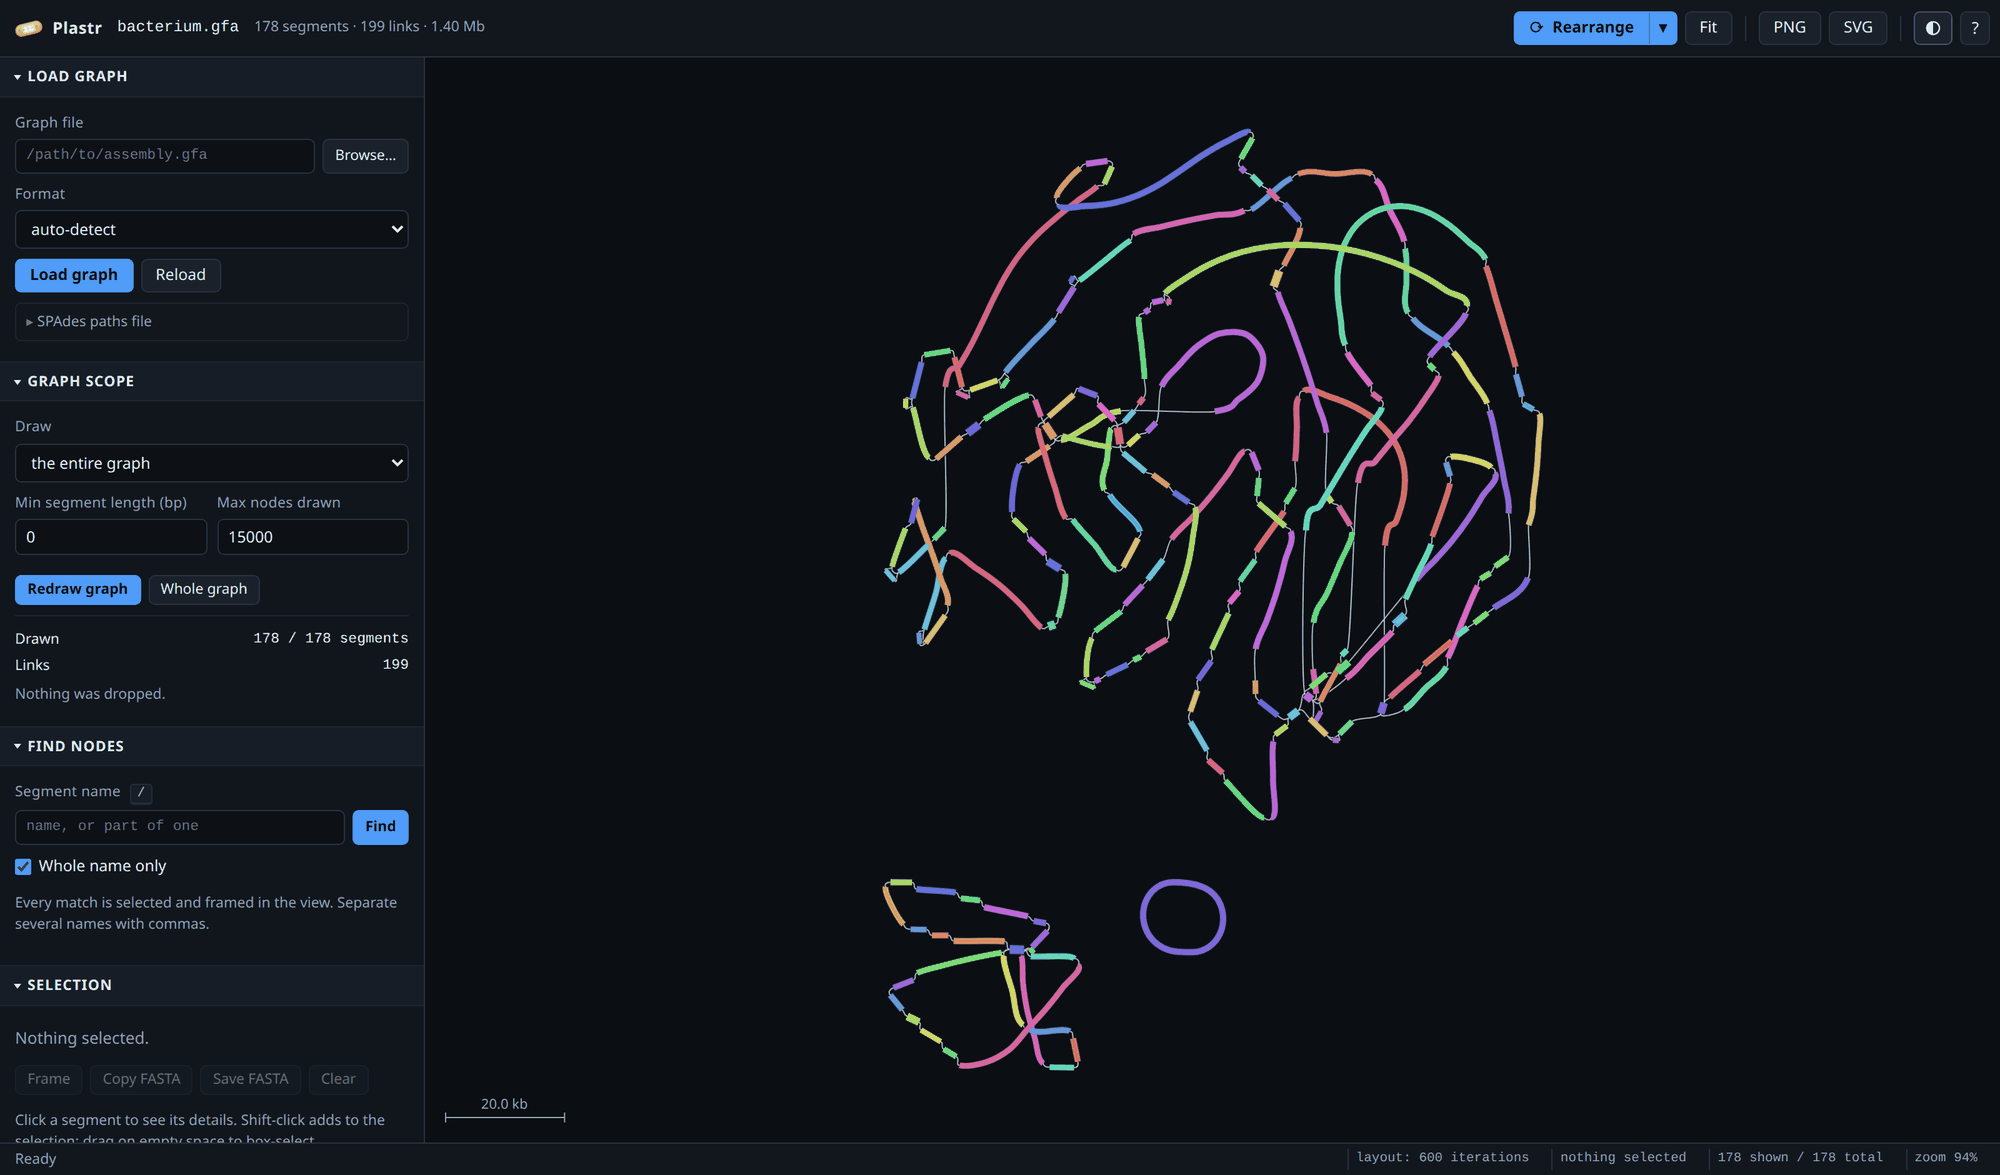
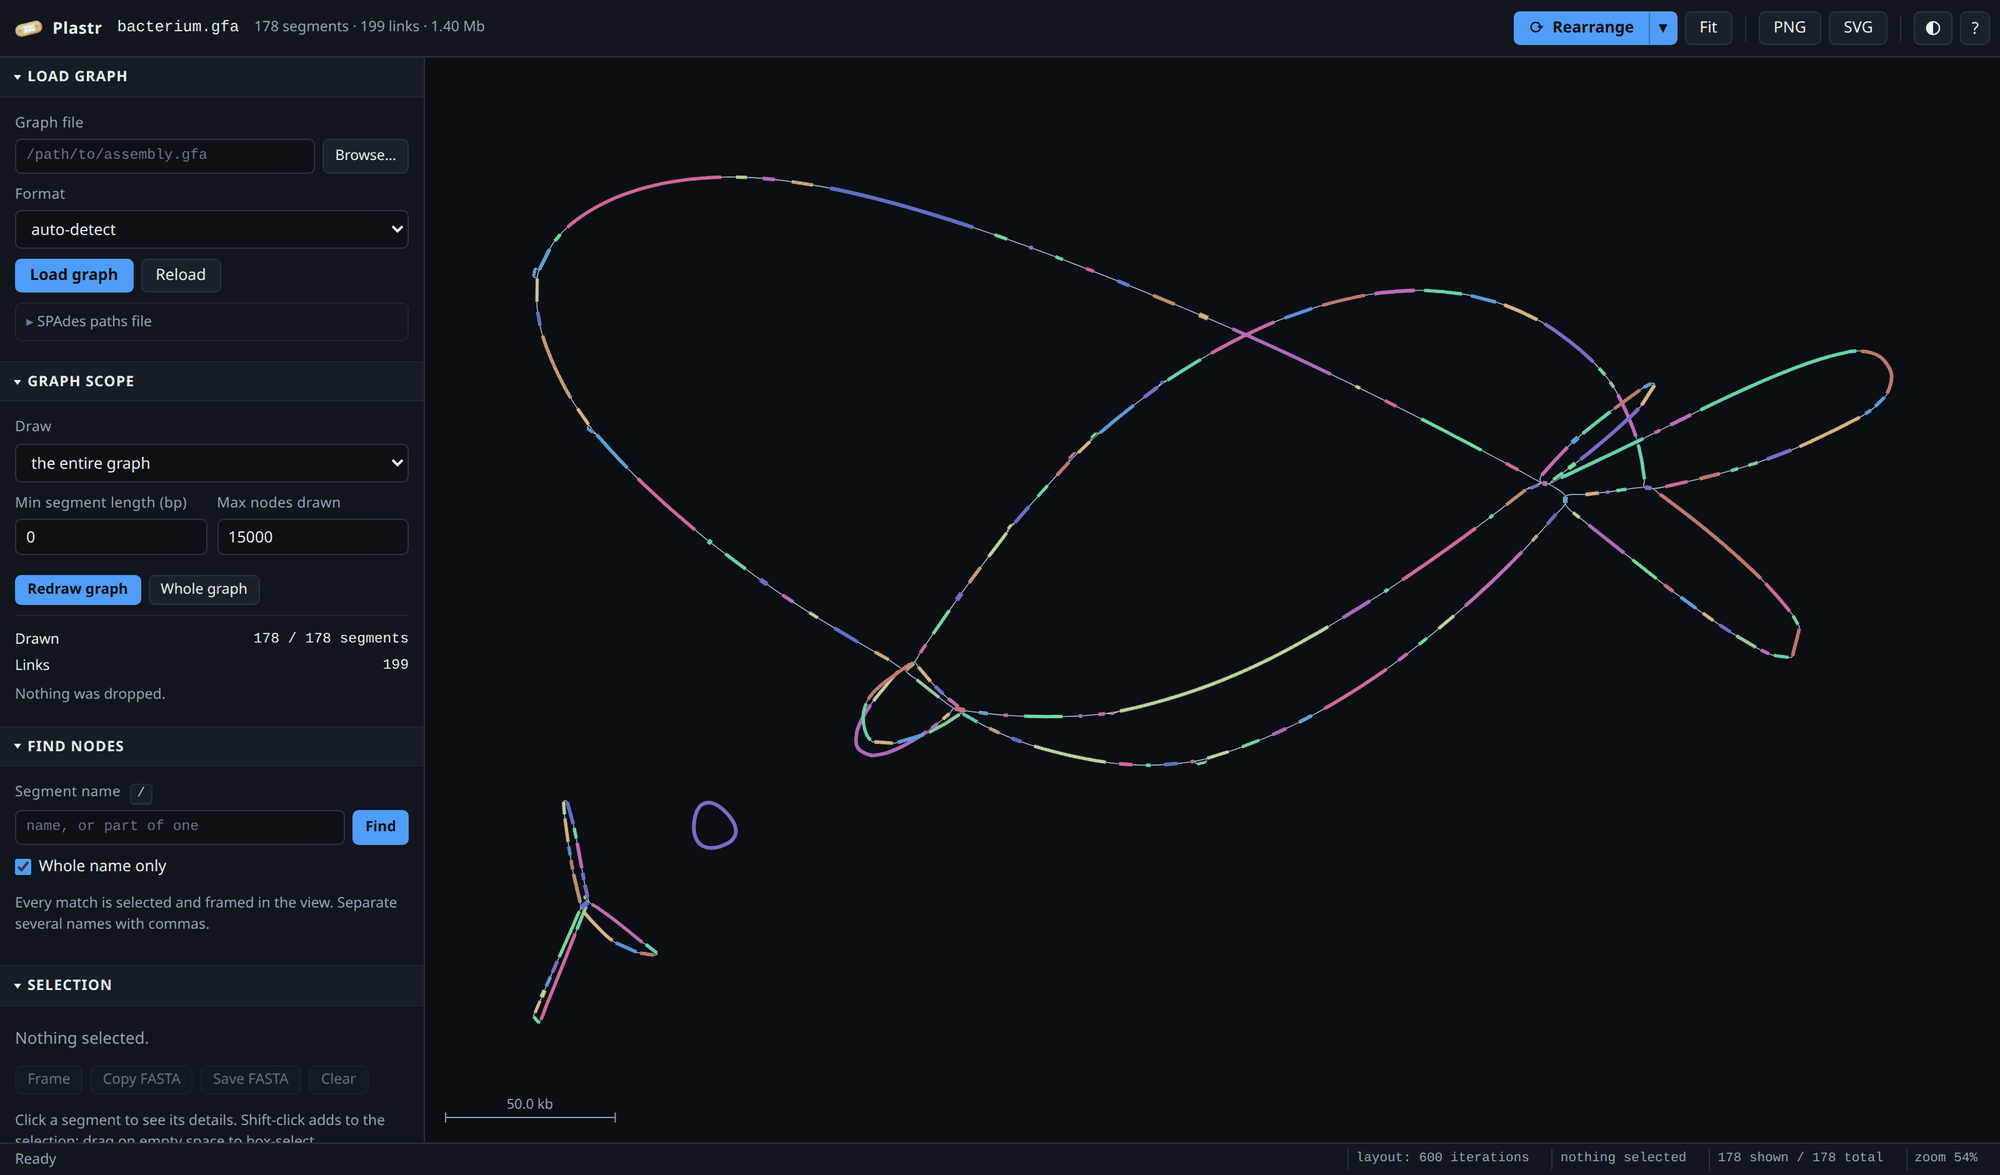
Let the loops open out, and colour contigs by their scaffold
Rendered five assemblies -- a finished genome, a long-read draft, a short-read
draft, a metagenome and a fragmented low-coverage one -- through the reference
implementation and through this one, and compared them side by side rather than
working from an idea of what the output looks like.

The reference draws a 223-contig replicon as long open petals radiating from a
repeat hub, with a great deal of white space. This drew the same graph as a
uniformly dense disc. Two causes.

Gravity. Pulling every contig towards its component's centre packs a drawing
inwards, and the long loops between repeats are exactly what that destroys:
they are the structure, and they can only be read if they are free to reach
outwards. There is no equivalent in the reference. It is off, and components
are held together by packing them explicitly, which was already the case.

Connection length. With gravity gone, repulsion can open the loops out, but a
connection was a soft spring while a contig's own spacing was a hard
constraint, so the contigs kept their length and the connections took up all
the slack -- stretching to two units and turning the drawing into beads on
strings. Connections are now projected to their length in the same pass as
everything else, so repulsion spreads the graph while they stay short: median
0.44 units at thirty times the old repulsion, against 2.08 without it.

The result is open petals with white space, mean join angle 24 degrees against
[…]

diff --git a/src/plastr/web/js/layout.js b/src/plastr/web/js/layout.js
@@ -230,7 +230,7 @@ export const DEFAULT_PARAMS = Object.freeze({
   // the value that reproduces that on both a 10-segment and a 285-segment
   // graph. The previous 0.05 predated the per-graph length calibration and left
   // small graphs with gaps twice the length of the contigs they joined.
-  repulsion: 0.01,
+  repulsion: 0.12,
   linkStrength: 1.80,
   // Rest length of a link, **as a fraction of the mean intra-segment spacing**.
   // Bandage gives real edges an ideal length of 5.0 against a node segment
@@ -244,6 +244,10 @@ export const DEFAULT_PARAMS = Object.freeze({
   // the contigs are the picture, and a longer rest length turns them into beads
   // on strings.
   linkRestFrac: 0.25,
+  // How much of a connection's length error is corrected per constraint pass.
+  // Enough to keep connections short under repulsion, short of 1 so a graph
+  // that cannot satisfy every connection at once relaxes instead of jittering.
+  linkStiffness: 0.5,
   // Keeps a long contig reading as a smooth sweep rather than a squiggle.
   bendStrength: 0.90,
   // How firmly a closed molecule is held to a circle. Strong enough to survive
@@ -267,7 +271,12 @@ export const DEFAULT_PARAMS = Object.freeze({
   // Pull towards the component's own centre, not the whole drawing's. A global
   // centroid packs every component into one disc, which is why unrelated
   // plasmids used to be threaded through the chromosome.
-  gravity: 0.02,
+  // Off. Pulling every contig towards its component's centre packs the drawing
+  // into a uniformly dense disc, which is what a graph layout must not do: the
+  // long loops between repeats are the structure, and they can only be seen if
+  // they are free to reach outwards. Components are kept together by packing
+  // them explicitly, so nothing needs gravity to stop it drifting.
+  gravity: 0,
   damping: 0.82,
   theta: 0.75,
   maxIter: 600,
@@ -769,7 +778,40 @@ export class LayoutEngine {
     if (preX) {
       for (let i = 0; i < nParticles; i++) { preX[i] = px[i]; preY[i] = py[i]; }
     }
+    const linkRest = unit * (P.linkRestFrac !== undefined ? P.linkRestFrac : 0.25);
+    const linkStiff = Math.max(0, Math.min(1, P.linkStiffness === undefined ? 0.5 : P.linkStiffness));
     for (let pass = 0; pass < passes; pass++) {
+      // Hold connections to their length the same way a contig's own spacing is
+      // held: by projection, not by a spring. A spring loses. The spacing
+      // inside a contig is a hard constraint applied every pass, so when
+      // repulsion rises to open the drawing out, the contigs keep their length
+      // and the connections take up all the slack -- stretching to two units
+      // and turning the picture into beads on strings. Constraining them too
+      // lets repulsion spread the graph while connections stay short.
+      if (linkStiff > 0) {
+        for (let l = 0; l < this.nLinks; l++) {
+          if (this.linkFrom[l] === this.linkTo[l]) continue;
+          const a = this.particleOf(this.linkFrom[l], this.linkFromEnd[l]);
+          const b = this.particleOf(this.linkTo[l], this.linkToEnd[l]);
+          if (a === b) continue;
+          const ma = mobile[a], mb = mobile[b];
+          if (!ma && !mb) continue;
+          let dx = px[b] - px[a];
+          let dy = py[b] - py[a];
+          let d = Math.sqrt(dx * dx + dy * dy);
+          if (d < 1e-4) continue;
+          const corr = ((d - linkRest) / d) * linkStiff;
+          if (ma && mb) {
+            const hx = dx * corr * 0.5, hy = dy * corr * 0.5;
+            px[a] += hx; py[a] += hy;
+            px[b] -= hx; py[b] -= hy;
+          } else if (ma) {
+            px[a] += dx * corr; py[a] += dy * corr;
+          } else {
+            px[b] -= dx * corr; py[b] -= dy * corr;
+          }
+        }
+      }
       for (let s = 0; s < nSegments; s++) {
         const p0 = segP0[s], k = segK[s];
         if (k < 2) continue;

diff --git a/src/plastr/web/js/render.js b/src/plastr/web/js/render.js
@@ -342,6 +342,36 @@ export class ColourMapper {
         return this;
       }
 
+      case 'path': {
+        // Which scaffold each contig belongs to. A GFA path is the assembler's
+        // own statement that these contigs are one molecule, and it is the
+        // thing a drawing most easily loses: a circular replicon in twenty
+        // pieces is twenty unrelated colours unless something says otherwise.
+        // Contigs in no path stay grey, so what is scaffolded and what is not
+        // reads at a glance.
+        const paths = graph.paths || [];
+        this.palette = [grey].concat(paths.map((_, i) => CATEGORICAL[i % CATEGORICAL.length]));
+        for (const s of graph.segments) {
+          const inPaths = graph.pathsForSegment(s.idx);
+          // A contig shared by several paths takes the first, which is the
+          // longest -- the scaffold it mostly belongs to.
+          this.segPal[s.idx] = inPaths.length ? (inPaths[0].idx % (this.palette.length - 1)) + 1 : 0;
+        }
+        const placed = graph.segments.filter((s) => this.segPal[s.idx] > 0).length;
+        this.legend = {
+          type: 'cat',
+          label: paths.length ? 'scaffold (GFA path)' : 'no paths in this graph',
+          items: paths.slice(0, 14).map((pth, i) => ({
+            colour: this.palette[(i % (this.palette.length - 1)) + 1],
+            label: `${pth.name} · ${pth.segs.length} contig${pth.segs.length === 1 ? '' : 's'}`,
+          })).concat(placed < graph.segments.length
+            ? [{ colour: grey, label: `${graph.segments.length - placed} not in any path` }]
+            : []),
+          more: Math.max(0, paths.length - 14),
+        };
+        return this;
+      }
+
       case 'random': {
         // One colour per node, seeded from its name so it is stable across
         // reloads. This is Bandage's default and it is the most legible way to

diff --git a/src/plastr/web/index.html b/src/plastr/web/index.html
@@ -215,6 +215,7 @@
             <option value="gc">GC content</option>
             <option value="length">length</option>
             <option value="component">connected component</option>
+            <option value="path">scaffold (GFA path)</option>
             <option value="randomComponent">random per component</option>
             <option value="reference">reference chromosome</option>
             <option value="search">search / BLAST hit</option>
@@ -482,11 +483,11 @@
     <details class="sub">
       <summary>Physics</summary>
       <label class="field"><span class="field-label">Repulsion <output id="rr-rep-out">0.010</output></span>
-        <input type="range" id="rr-repulsion" aria-label="Repulsion" min="0.002" max="0.2" step="0.002" value="0.01"></label>
+        <input type="range" id="rr-repulsion" aria-label="Repulsion" min="0.005" max="0.6" step="0.005" value="0.12"></label>
       <label class="field"><span class="field-label">Link strength <output id="rr-link-out">1.80</output></span>
         <input type="range" id="rr-linkstr" aria-label="Link strength" min="0.1" max="4" step="0.05" value="1.8"></label>
       <label class="field"><span class="field-label">Gravity <output id="rr-grav-out">0.020</output></span>
-        <input type="range" id="rr-gravity" aria-label="Gravity" min="0" max="0.4" step="0.005" value="0.02"></label>
+        <input type="range" id="rr-gravity" aria-label="Gravity" min="0" max="0.4" step="0.005" value="0"></label>
       <label class="field"><span class="field-label">Max iterations</span>
         <input type="number" id="rr-iters" value="600" min="30" max="20000" step="50"></label>
     </details>

diff --git a/README.md b/README.md
@@ -189,6 +189,7 @@ the colours currently mean.
 | **GC content** | A ramp over GC fraction |
 | **length** | A ramp over contig length |
 | **connected component** | One colour per component |
+| **scaffold (GFA path)** | One colour per `P`-line, so the contigs the assembler says are one molecule read as one molecule. Contigs in no path stay grey, so what is scaffolded and what is not shows at a glance |
 | **random per component** | As above, with unrelated hues |
 | **reference chromosome** | Which reference sequence each part aligned to, painted as sub-spans along the contig |
 | **search / BLAST hit** | Where your query hit, painted along the contig; optionally in rainbow order by position in the query |
